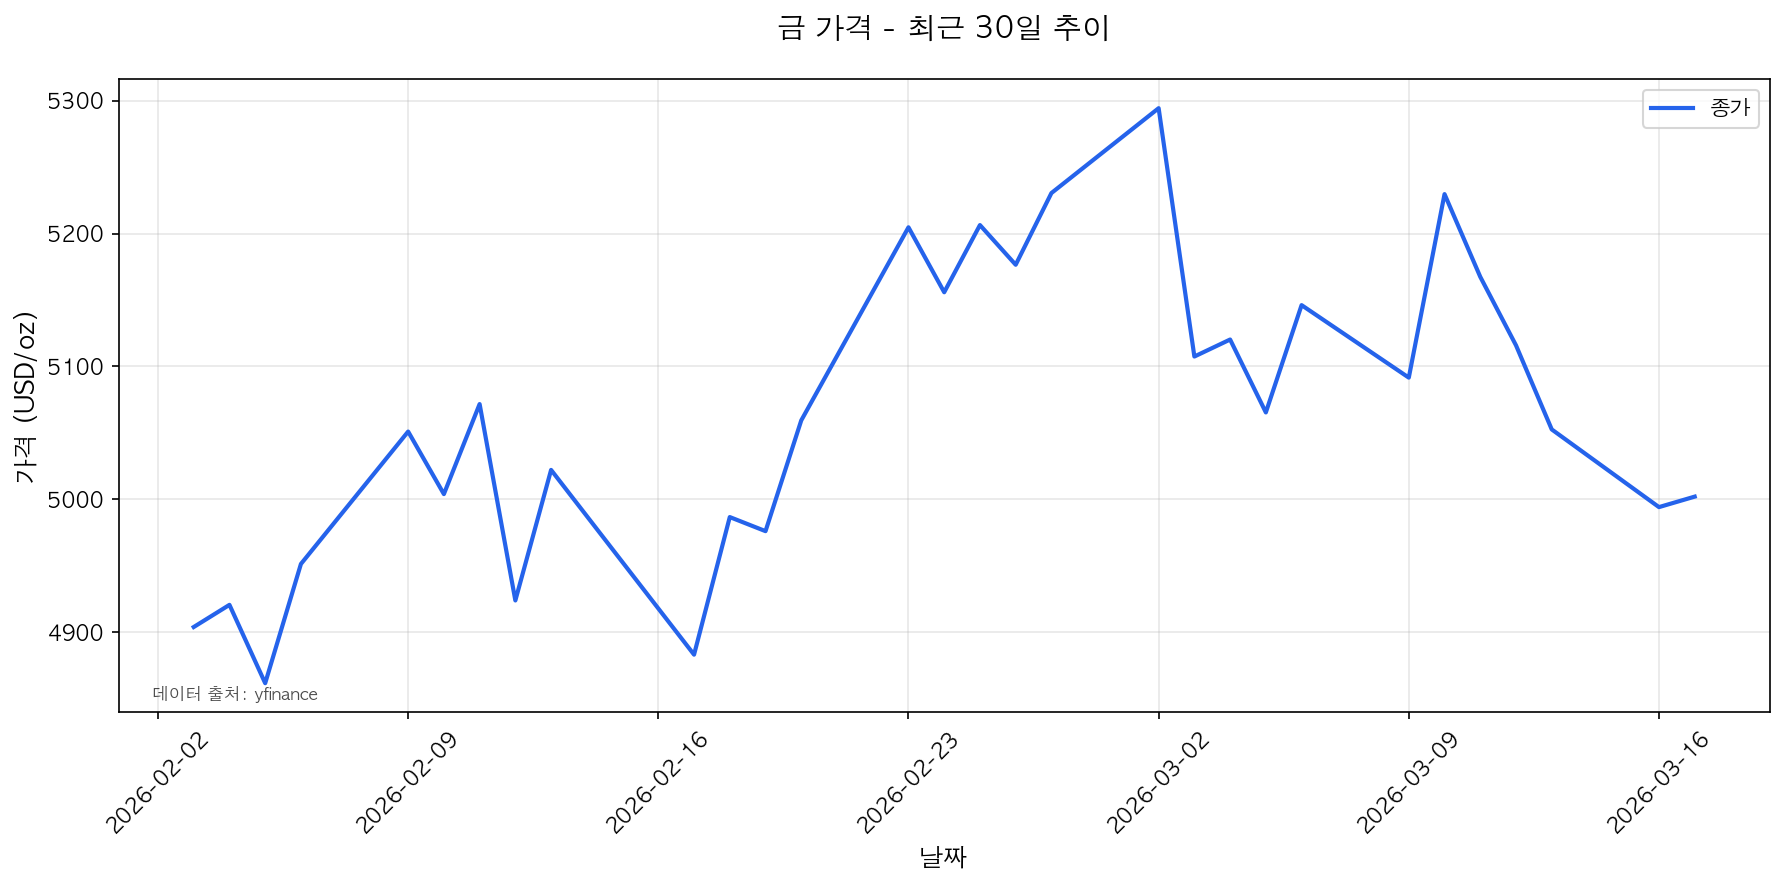
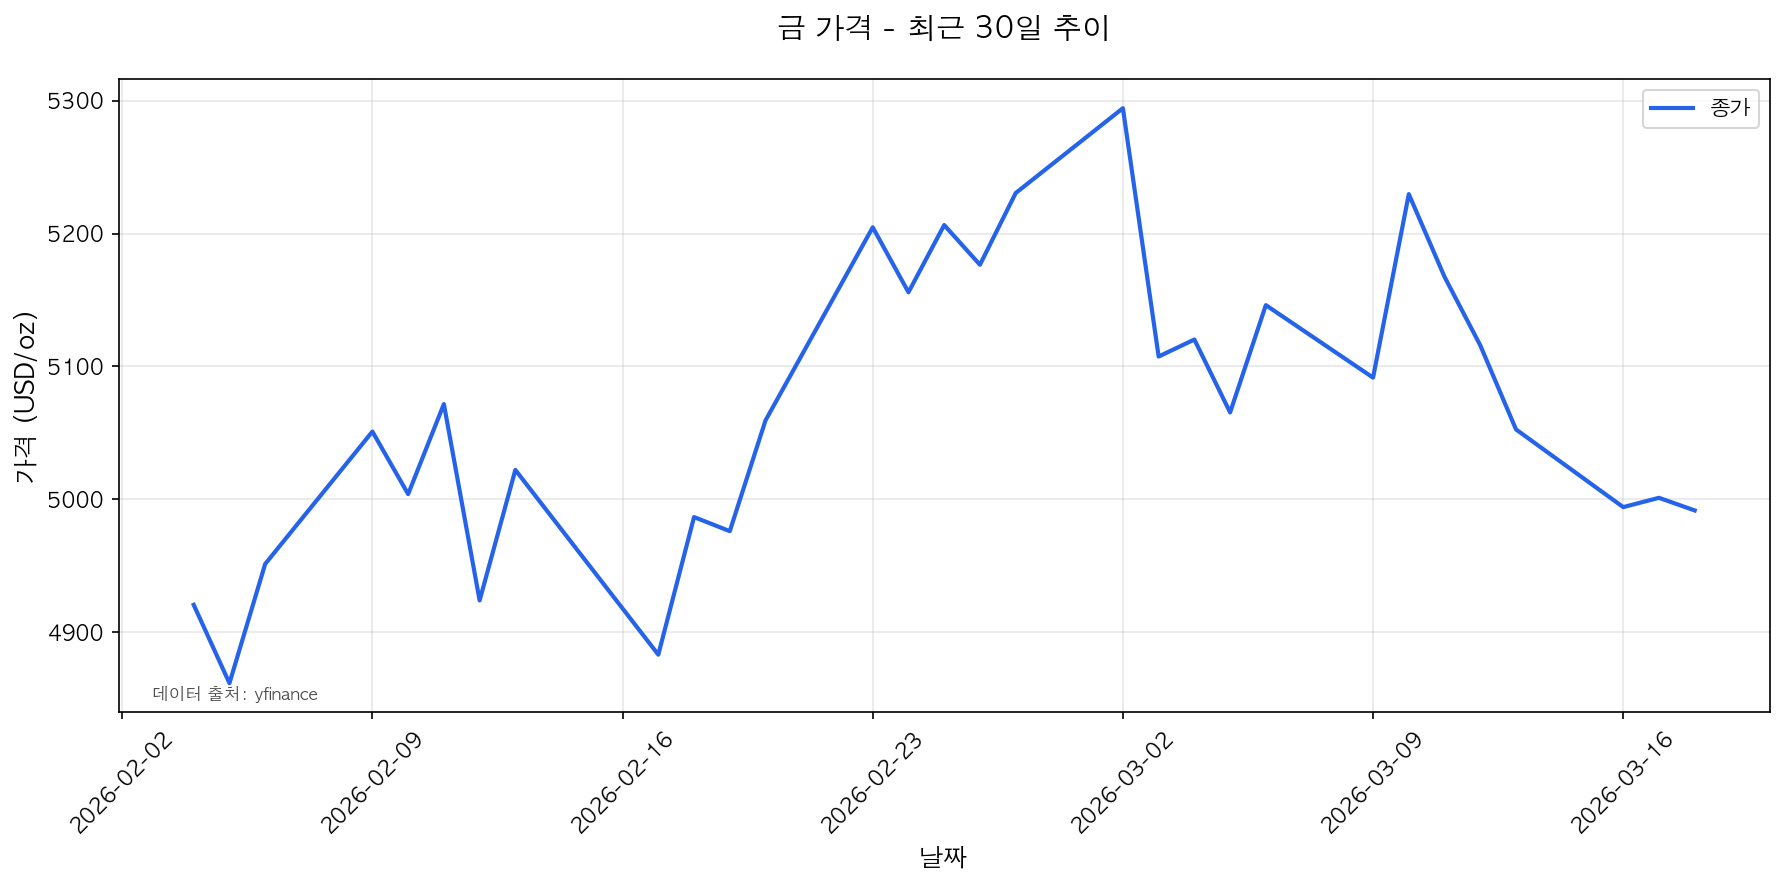
Update economic trends analysis 2026-02-25 - Refreshed data and charts

diff --git a/generate_economic_post.py b/generate_economic_post.py
@@ -19,14 +19,26 @@ POST_PATH = f"/Users/shin/.openclaw/workspace/swc7592-blip.github.io/_posts/{dat
 INSTRUMENTS = {
     # Stock Indices
     'sp500': {'ticker': '^GSPC', 'title': 'S&P 500', 'category': '주식지수', 'unit': '지수'},
+    'nasdaq': {'ticker': '^IXIC', 'title': 'Nasdaq 100', 'category': '주식지수', 'unit': '지수'},
+    'dowjones': {'ticker': '^DJI', 'title': 'Dow Jones', 'category': '주식지수', 'unit': '지수'},
     'kospi': {'ticker': '^KS11', 'title': 'KOSPI', 'category': '주식지수', 'unit': '지수'},
 
     # Interest Rates
-    'treasury': {'ticker': '^TNX', 'title': '10년 국채 금리', 'category': '금리', 'unit': '%'},
+    'treasury10': {'ticker': '^TNX', 'title': '2년 국채 금리', 'category': '금리', 'unit': '%'},
+    'treasury30': {'ticker': '^TYX', 'title': '30년 국채 금리', 'category': '금리', 'unit': '%'},
+
+    # Volatility
+    'vix': {'ticker': '^VIX', 'title': 'VIX 지수', 'category': '변동성', 'unit': '지수'},
+
+    # Currency / FX
+    'usdkrw': {'ticker': 'USDKRW=X', 'title': 'USD/KRW', 'category': '환율', 'unit': '원'},
+    'eurusd': {'ticker': 'EURUSD=X', 'title': 'EUR/USD', 'category': '환율', 'unit': 'USD'},
+    'usdjpy': {'ticker': 'USDJPY=X', 'title': 'USD/JPY', 'category': '환율', 'unit': 'JPY'},
 
     # Cryptocurrencies
     'bitcoin': {'ticker': 'BTC-USD', 'title': '비트코인 (Bitcoin)', 'category': '크립토', 'unit': 'USD'},
     'ethereum': {'ticker': 'ETH-USD', 'title': '이더리움 (Ethereum)', 'category': '크립토', 'unit': 'USD'},
+    'sol': {'ticker': 'SOL-USD', 'title': '솔라나 (SOL)', 'category': '크립토', 'unit': 'USD'},
 
     # Metals (금속)
     'gold': {'ticker': 'GC=F', 'title': '금 (Gold)', 'category': '금속', 'unit': 'USD/oz'},
@@ -40,6 +52,7 @@ INSTRUMENTS = {
     'brent': {'ticker': 'BZ=F', 'title': 'Brent 원유 (Brent Crude)', 'category': '원료', 'unit': 'USD/배럴'},
     'natural_gas': {'ticker': 'NG=F', 'title': '천연가스 (Natural Gas)', 'category': '원료', 'unit': 'USD/MMBtu'},
     'gasoline': {'ticker': 'RB=F', 'title': '휘발유 (RBOB Gasoline)', 'category': '원료', 'unit': 'USD/갤런'},
+    'palladium': {'ticker': 'PA=F', 'title': '팔라듐 (Palladium)', 'category': '원료', 'unit': 'USD/oz'},
 
     # Agricultural Products (농산물)
     'wheat': {'ticker': 'ZW=F', 'title': '밀 (Wheat)', 'category': '농산물', 'unit': 'USD/bushel'},
@@ -133,7 +146,9 @@ def create_summary_table(analysis):
         '농산물': [],
         '주식지수': [],
         '크립토': [],
-        '금리': []
+        '금리': [],
+        '환율': [],
+        '변동성': []
     }
 
     for key, item in analysis.items():
@@ -181,8 +196,8 @@ layout: post
 title: "{year_month_str} 글로벌 경제 동향 분석: 금리 정책과 시장 트렌드"
 date: {date_str} 06:00:00 +0900
 categories: [economy, global-finance]
-tags: [경제, 연준, 금리, 인플레이션, 주식, 금융, 금, 은, 백금, 구리, 알루미늄, WTI 원유, Brent 원유, 천연가스, 휘발유, 밀, 옥수수, 대두, 커피, 요소, 비트코인, 이더리움, KOSPI, S&P 500]
-description: "{date_str} 글로벌 및 한국 경제 동향 분석 - 금속, 원료, 농산물, 크립토 시장 트렌드"
+tags: [경제, 연준, 금리, 인플레이션, 주식, 금융, 금, 은, 백금, 구리, 알루미늄, WTI 원유, Brent 원유, 천연가스, 휘발유, 팔라듐, 밀, 옥수수, 대두, 커피, USD/KRW, EUR/USD, USD/JPY, Nasdaq, Dow Jones, VIX, 2년 국채, 30년 국채, 솔라나, 비트코인, 이더리움, KOSPI, S&P 500]
+description: "{date_str} 글로벌 및 한국 경제 동향 분석 - 환율, 주식지수, 금리, 변동성, 금속, 원료, 농산물, 크립토 시장 트렌드"
 ---
 
 ## {year_month_str} 글로벌 경제 동향 분석: 금리 정책과 시장 트렌드
@@ -196,7 +211,7 @@ description: "{date_str} 글로벌 및 한국 경제 동향 분석 - 금속, 원
 """
 
     # Add tables for each category
-    for category in ['금속', '원료', '농산물', '주식지수', '크립토', '금리']:
+    for category in ['금속', '원료', '농산물', '환율', '변동성', '주식지수', '크립토', '금리']:
         if category in tables:
             blog_post += f"\n### {category}\n\n{tables[category]}\n\n"
 

diff --git a/_posts/2026-02-25-economic-trends-analysis.md b/_posts/2026-02-25-economic-trends-analysis.md
@@ -22,7 +22,7 @@ image: /assets/images/2026-02-25/gold_price_chart.png
 
 *그림 1: 최근 30일간 금 가격 추이 (데이터 출처: yfinance)*
 
-금 가격은 최근 30일간 **4903.7$**에서 **5001.9$**로 **2.00%** 상승했습니다.
+금 가격은 최근 30일간 **4920.4$**에서 **4991.5$**로 **1.45%** 상승했습니다.
 
 - 기간 중 최고가: **5294.4$** (2026-03-02)
 - 기간 중 최저가: **4861.4$** (2026-02-05)
@@ -52,7 +52,7 @@ image: /assets/images/2026-02-25/gold_price_chart.png
 
 *그림 3: 최근 30일간 KOSPI 지수 추이 (데이터 출처: yfinance)*
 
-한국 주식시장을 대표하는 KOSPI 지수는 최근 30일간 **5224.36**에서 **5849.88**로 **11.97%** 상승했습니다.
+한국 주식시장을 대표하는 KOSPI 지수는 최근 30일간 **5224.36**에서 **5925.03**로 **13.41%** 상승했습니다.
 
 - 기간 중 최고치: **6307.27** (2026-02-26)
 - 기간 중 최저치: **4949.67** (2026-02-02)
@@ -67,7 +67,7 @@ KOSPI는 글로벌 시장 동향, 반도체 등 수출 주도 기업의 실적, 
 
 *그림 4: 최근 30일간 원유 가격 추이 (데이터 출처: yfinance)*
 
-WTI 원유 가격은 최근 30일간 **63.21$**에서 **93.35$**로 **47.68%** 상승했습니다.
+WTI 원유 가격은 최근 30일간 **65.14$**에서 **93.86$**로 **44.09%** 상승했습니다.
 
 - 기간 중 최고가: **98.71$** (2026-03-13)
 - 기간 중 최저가: **62.33$** (2026-02-17)
